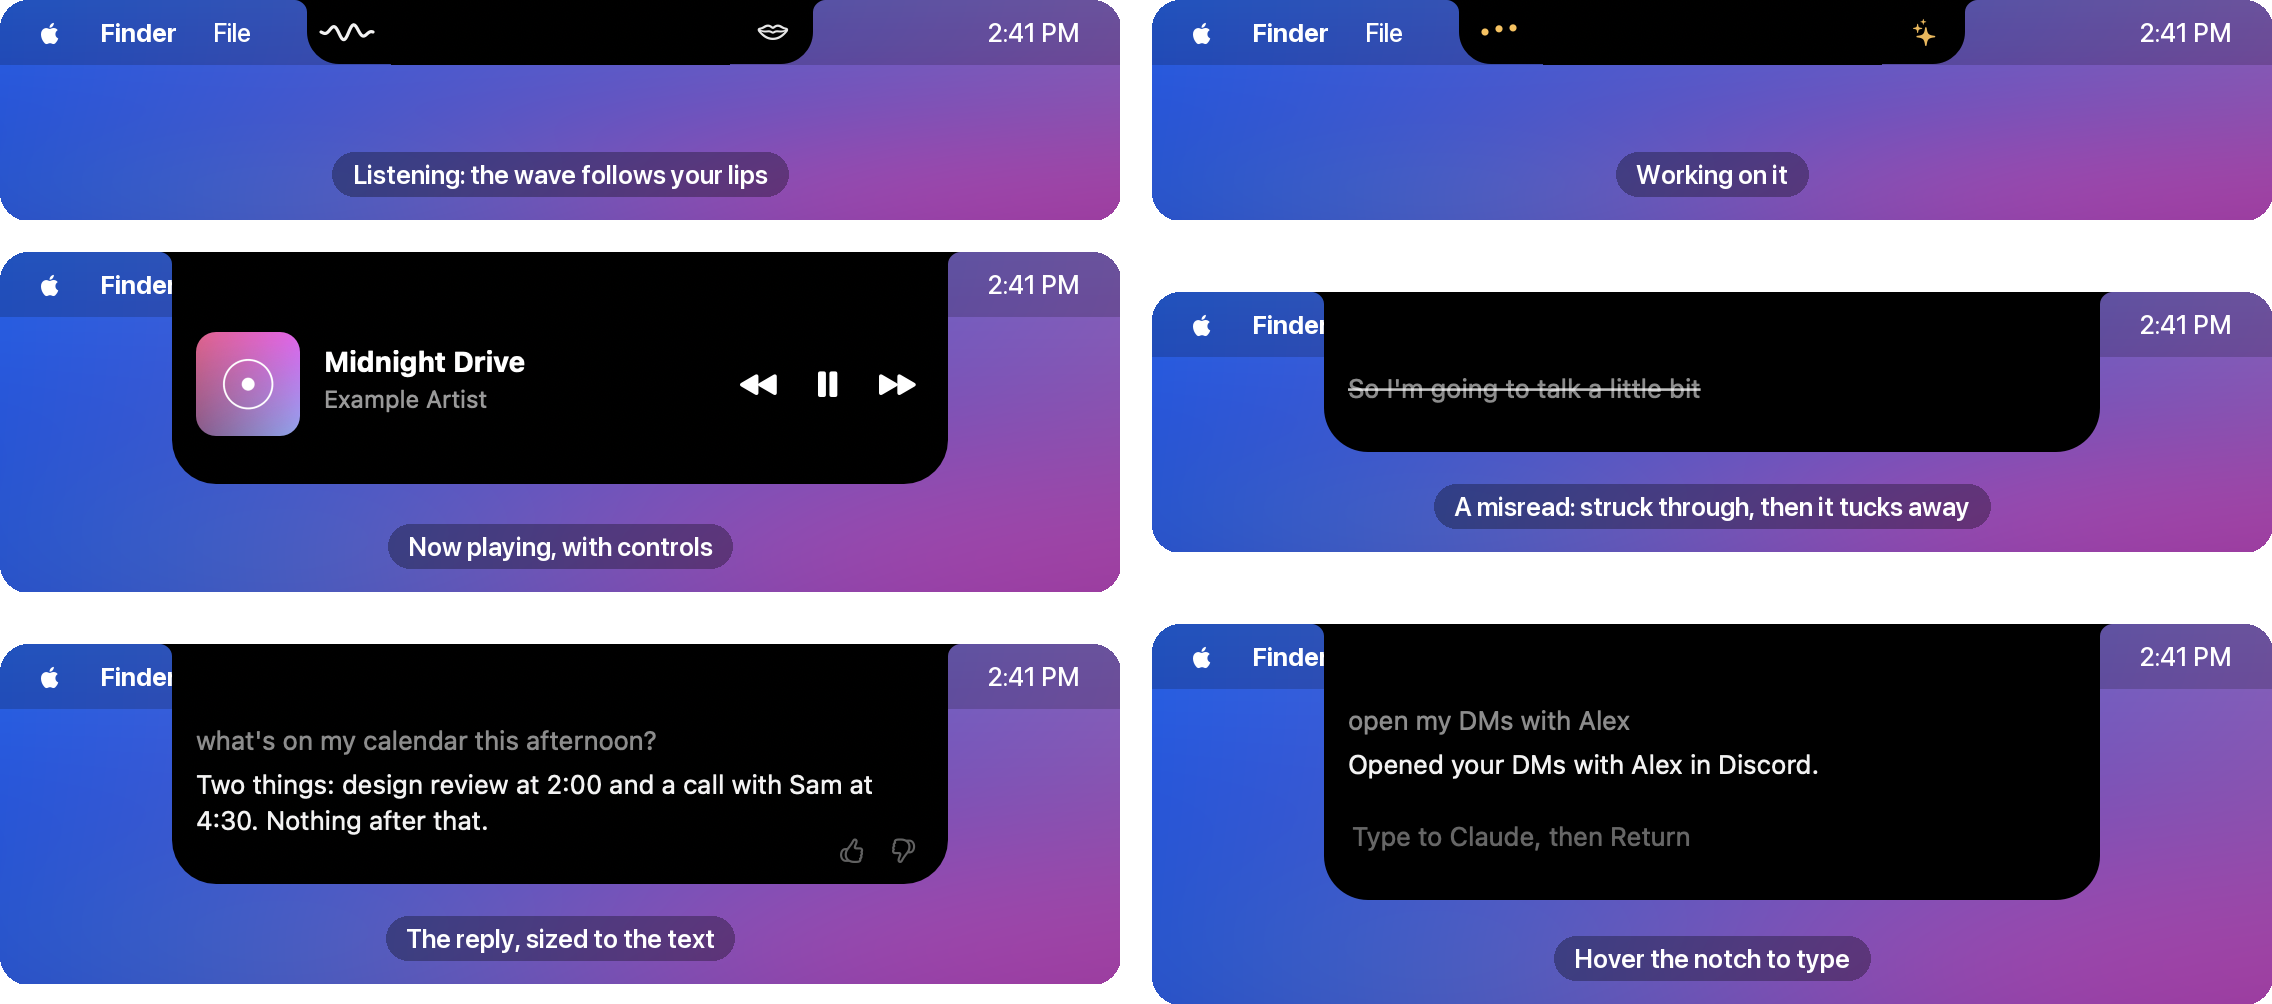
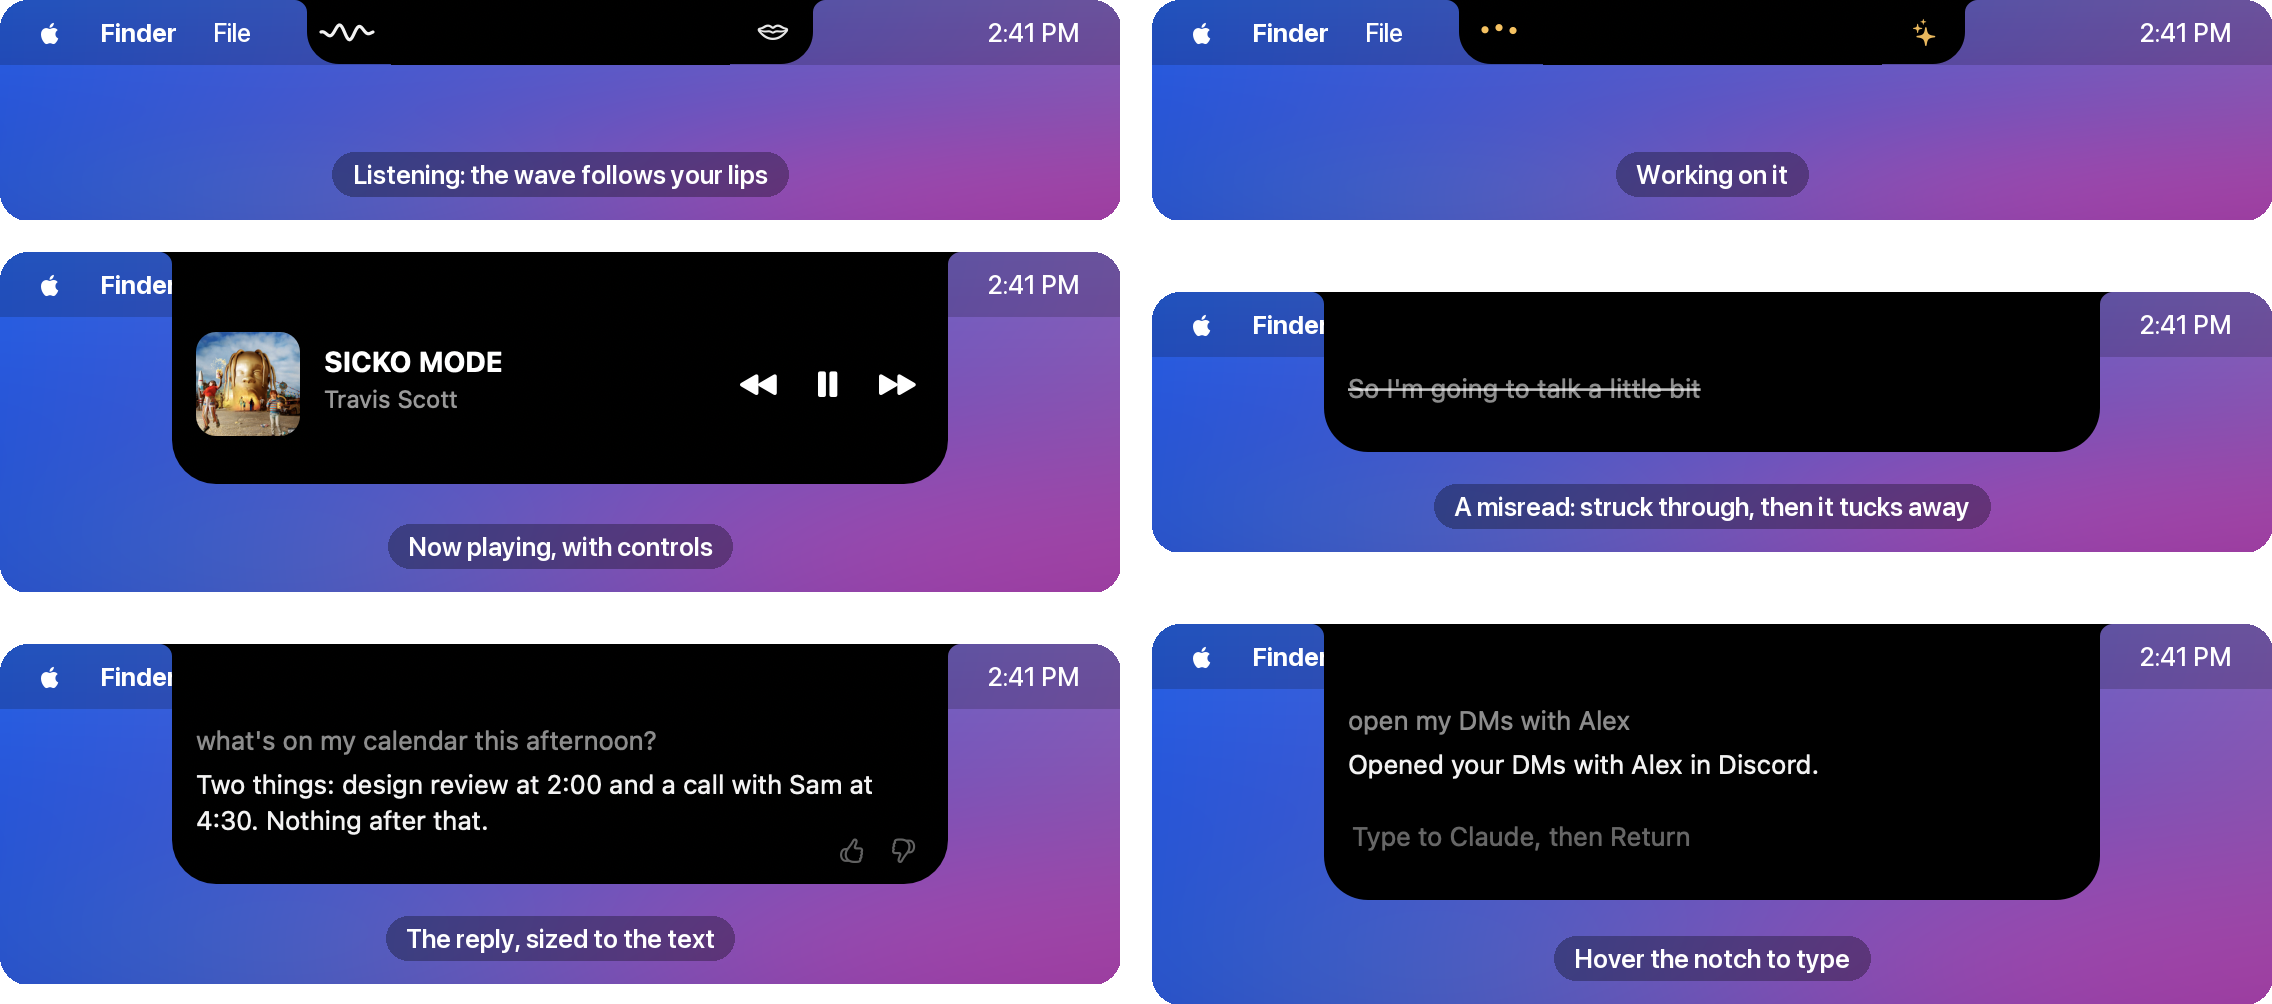
README: real album covers in the demo and now-playing screenshot

Changed region(s): [[0.0625, 0.3088, 0.25, 0.4323]]

diff --git a/README.md b/README.md
@@ -22,7 +22,8 @@
 <p align="center">
   <img src="docs/demo.gif" width="760" alt="Demo: while a video plays, lips silently mouth “play Drake on Spotify”; the notch widens with a wave that follows the lips, shows working dots, then drops down with God's Plan by Drake now playing, without leaving the video">
 </p>
-<p align="center"><sub>Illustrated demo: the island is the real app's, rendered frame by frame; the lips are animated.</sub></p>
+<p align="center"><sub>Illustrated demo: the island is the real app's, rendered frame by frame; the lips are animated. Album
+artwork © its owners, shown as Spotify displays it.</sub></p>
 
 ## What it does
 
@@ -47,7 +48,7 @@
 | 🪶 **Light** | About 2 GB when idle: big models load only when needed, and the camera turns off when you walk away. |
 
 <p align="center">
-  <img src="docs/island-states.png" width="860" alt="Six island states: listening with a wave that follows your lips, working dots, now playing with controls, a misread struck through, a reply, and the hover-to-type box">
+  <img src="docs/island-states.png" width="860" alt="Six island states: listening with a wave that follows your lips, working dots, now playing (SICKO MODE by Travis Scott) with controls, a misread struck through, a reply, and the hover-to-type box">
 </p>
 
 ## How it works
